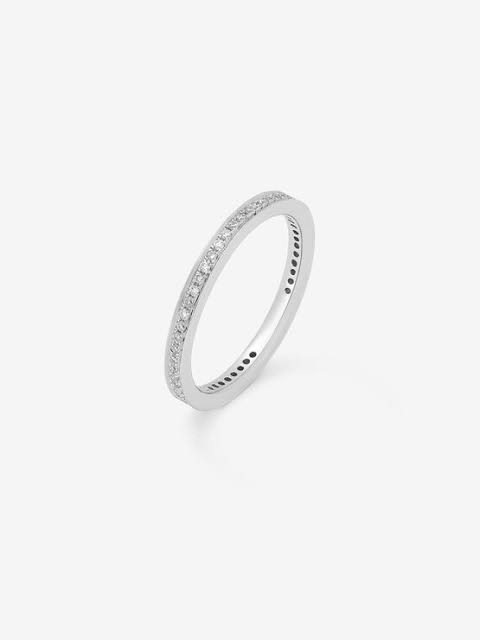
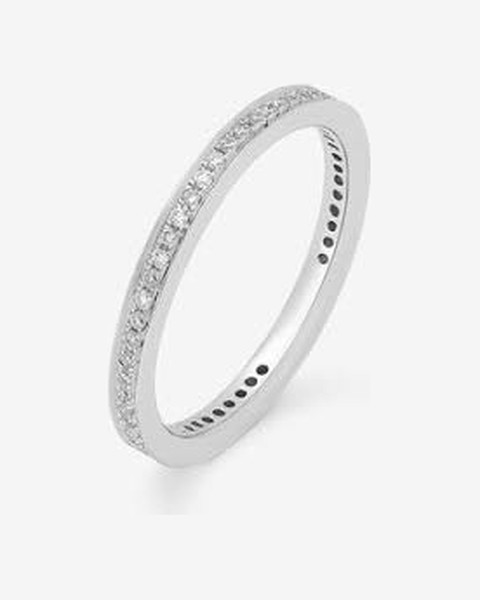
תמונות המוצרים: כל תכשיט מוצג במלואו, ממורכז ובגודל דומה
התמונות הגיעו בגדלים שונים (ריבועיות, לרוחב ולגובה), ומסגרת 4:5 חתכה חלק מהן,
למשל שרשראות וצמידים. כל תמונה רופדה עכשיו ליחס 4:5 בצבע הרקע שלה, עם מרווח קבוע.
בחלון פרטי המוצר התמונה מוצגת במלואה (contain).

Changed region(s): [[0.2188, 0.12, 0.7812, 0.81]]

diff --git a/css/style.css b/css/style.css
@@ -1114,7 +1114,7 @@ a {
 .product-modal-img img {
   width: 100%;
   height: 100%;
-  object-fit: cover;
+  object-fit: contain; /* בחלון רואים את כל התכשיט, בלי חיתוך */
 }
 
 .product-modal-info {
